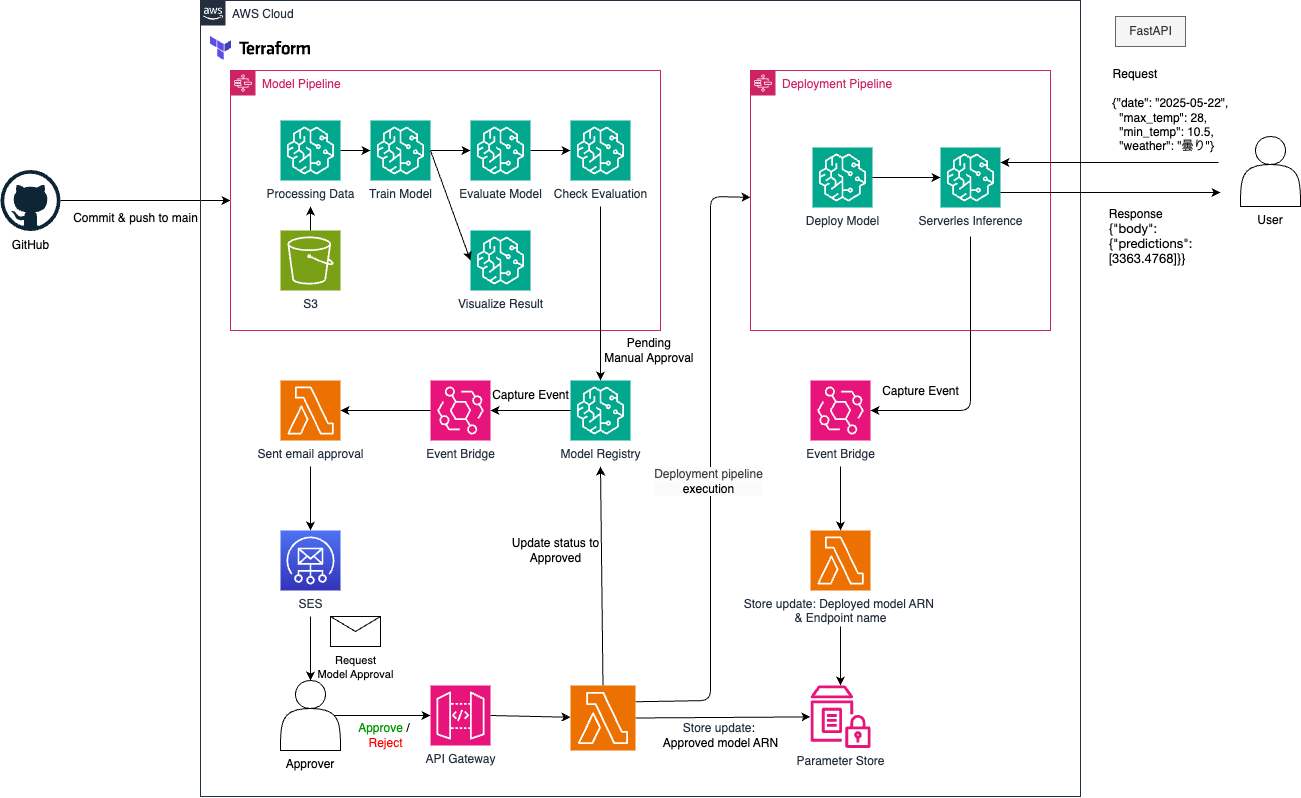
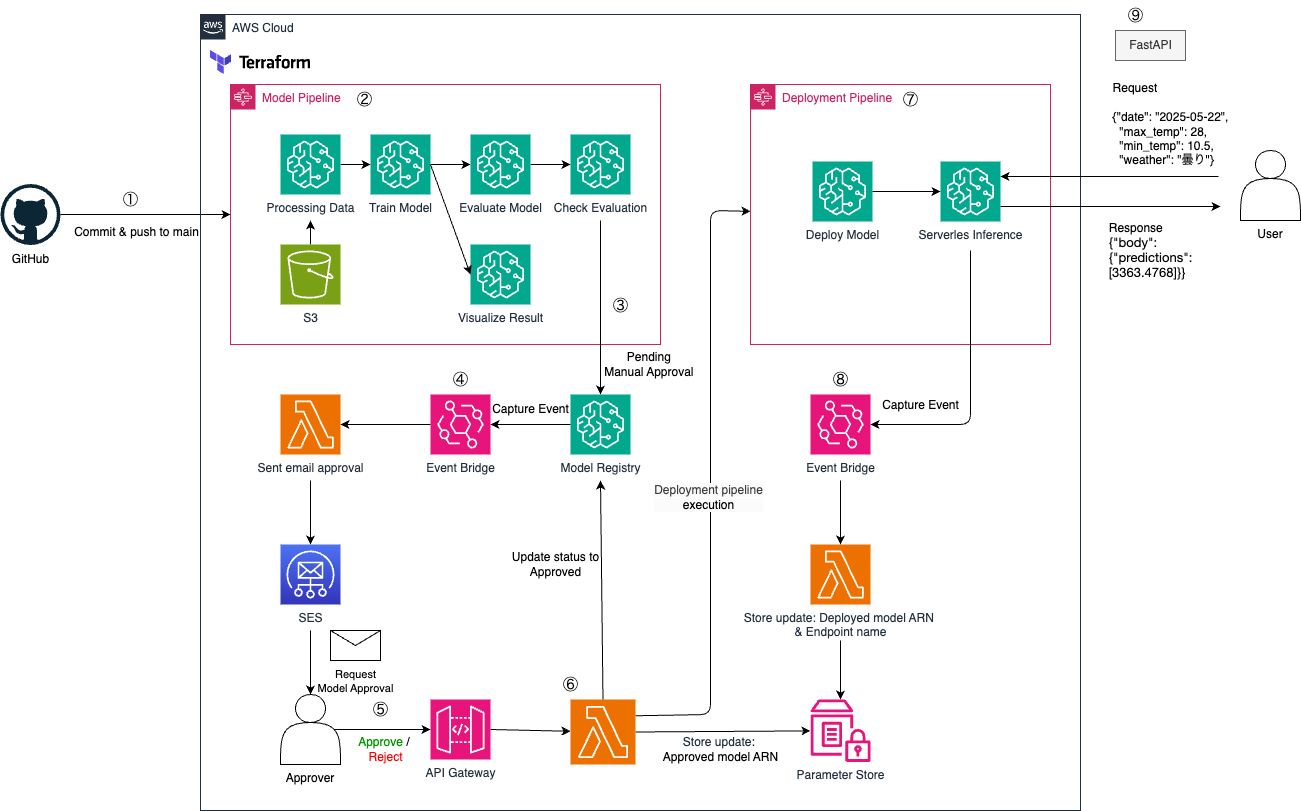
ドキュメント更新（ワークフローの詳細を記載） (#35)
* ワークフローの詳細を記載

* 文字大きく

diff --git a/README.md b/README.md
@@ -28,6 +28,24 @@ MLOpsの学習および実践を目的として、気象データと過去の電
 
 ![アーキテクチャ図](images/architecture_diagram_v1.png)
 
+### ワークフロー詳細
+1. 以下の条件でModel Pilenineが起動します
+    - GitHub 上で対象ディレクトリに変更があり、main ブランチへマージされたとき（GitHub Actions 経由）
+    - `run_pipeline.py` を手動で実行したとき
+2. Model Pipeline が前処理 → 特徴量エンジニアリング → モデル学習 → 評価 → 可視化 → 閾値判定 までを自動で実行します  （各ステップの詳細は[パイプライン詳細](#パイプライン詳細)を参照）
+3. 評価メトリクスが指定閾値を満たしたモデルは、Model Registry に `PendingManualApproval` 状態で登録されます
+4. EventBridge が `PendingManualApproval` のモデル登録イベントを検知し、承認用リンクを含む Eメールを SES 経由で送信する Lambda をトリガーします
+5. 承認者はメール内の `Approve` または `Reject` をクリックします
+6. API Gateway が Lambda を呼び出し、次の処理が行われます
+    - Model Registry 内のステータスを `Approved` または `Rejected` に更新
+    - `Approved` の場合、そのモデルの ARN を Parameter Store に保存
+    - `Approved` の場合、Deployment Pipeline を起動
+7. Deployment Pipeline が `Approved` モデルを Serverless Inference にデプロイします
+8. デプロイ完了後、EventBridge が成功イベントを検知し、Parameter Store に以下を保存します
+    - モデル ARN
+    - エンドポイント名
+9. ユーザーはエンドポイントに対してAPIリクエストを送信し、推論結果を取得することができます
+
 
 
 ## パイプライン詳細
